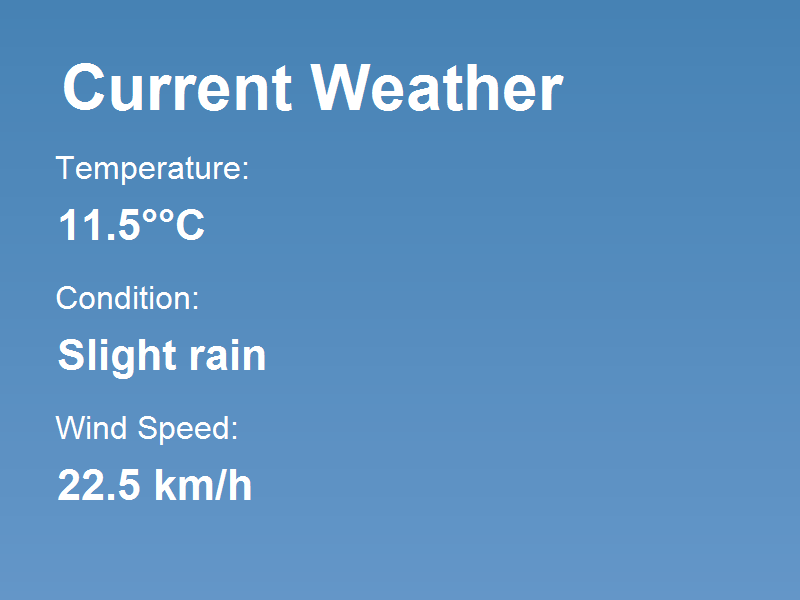
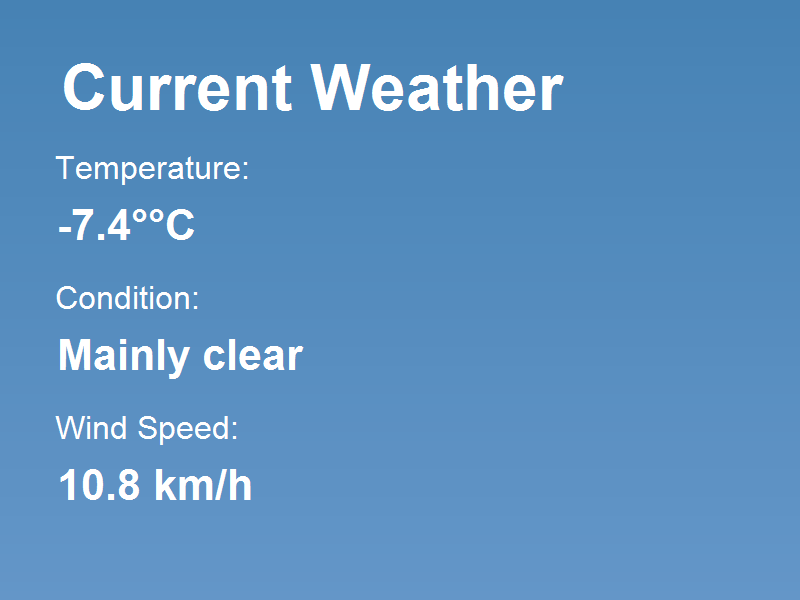
Update location for weather data query and replace current weather images

Changed region(s): [[0.0625, 0.54, 0.375, 0.63], [0.0625, 0.33, 0.25, 0.42], [0.0625, 0.78, 0.1875, 0.84]]

diff --git a/WeatherImageGenerator/Program.cs b/WeatherImageGenerator/Program.cs
@@ -21,7 +21,7 @@ namespace WeatherImageGenerator
                 OpenMeteoClient client = new OpenMeteoClient();
 
                 // Query weather for a city
-                string location = "London";
+                string location = "Delson";
                 Console.WriteLine($"Fetching weather data for {location}...");
                 
                 WeatherForecast? weatherData = await client.QueryAsync(location);
